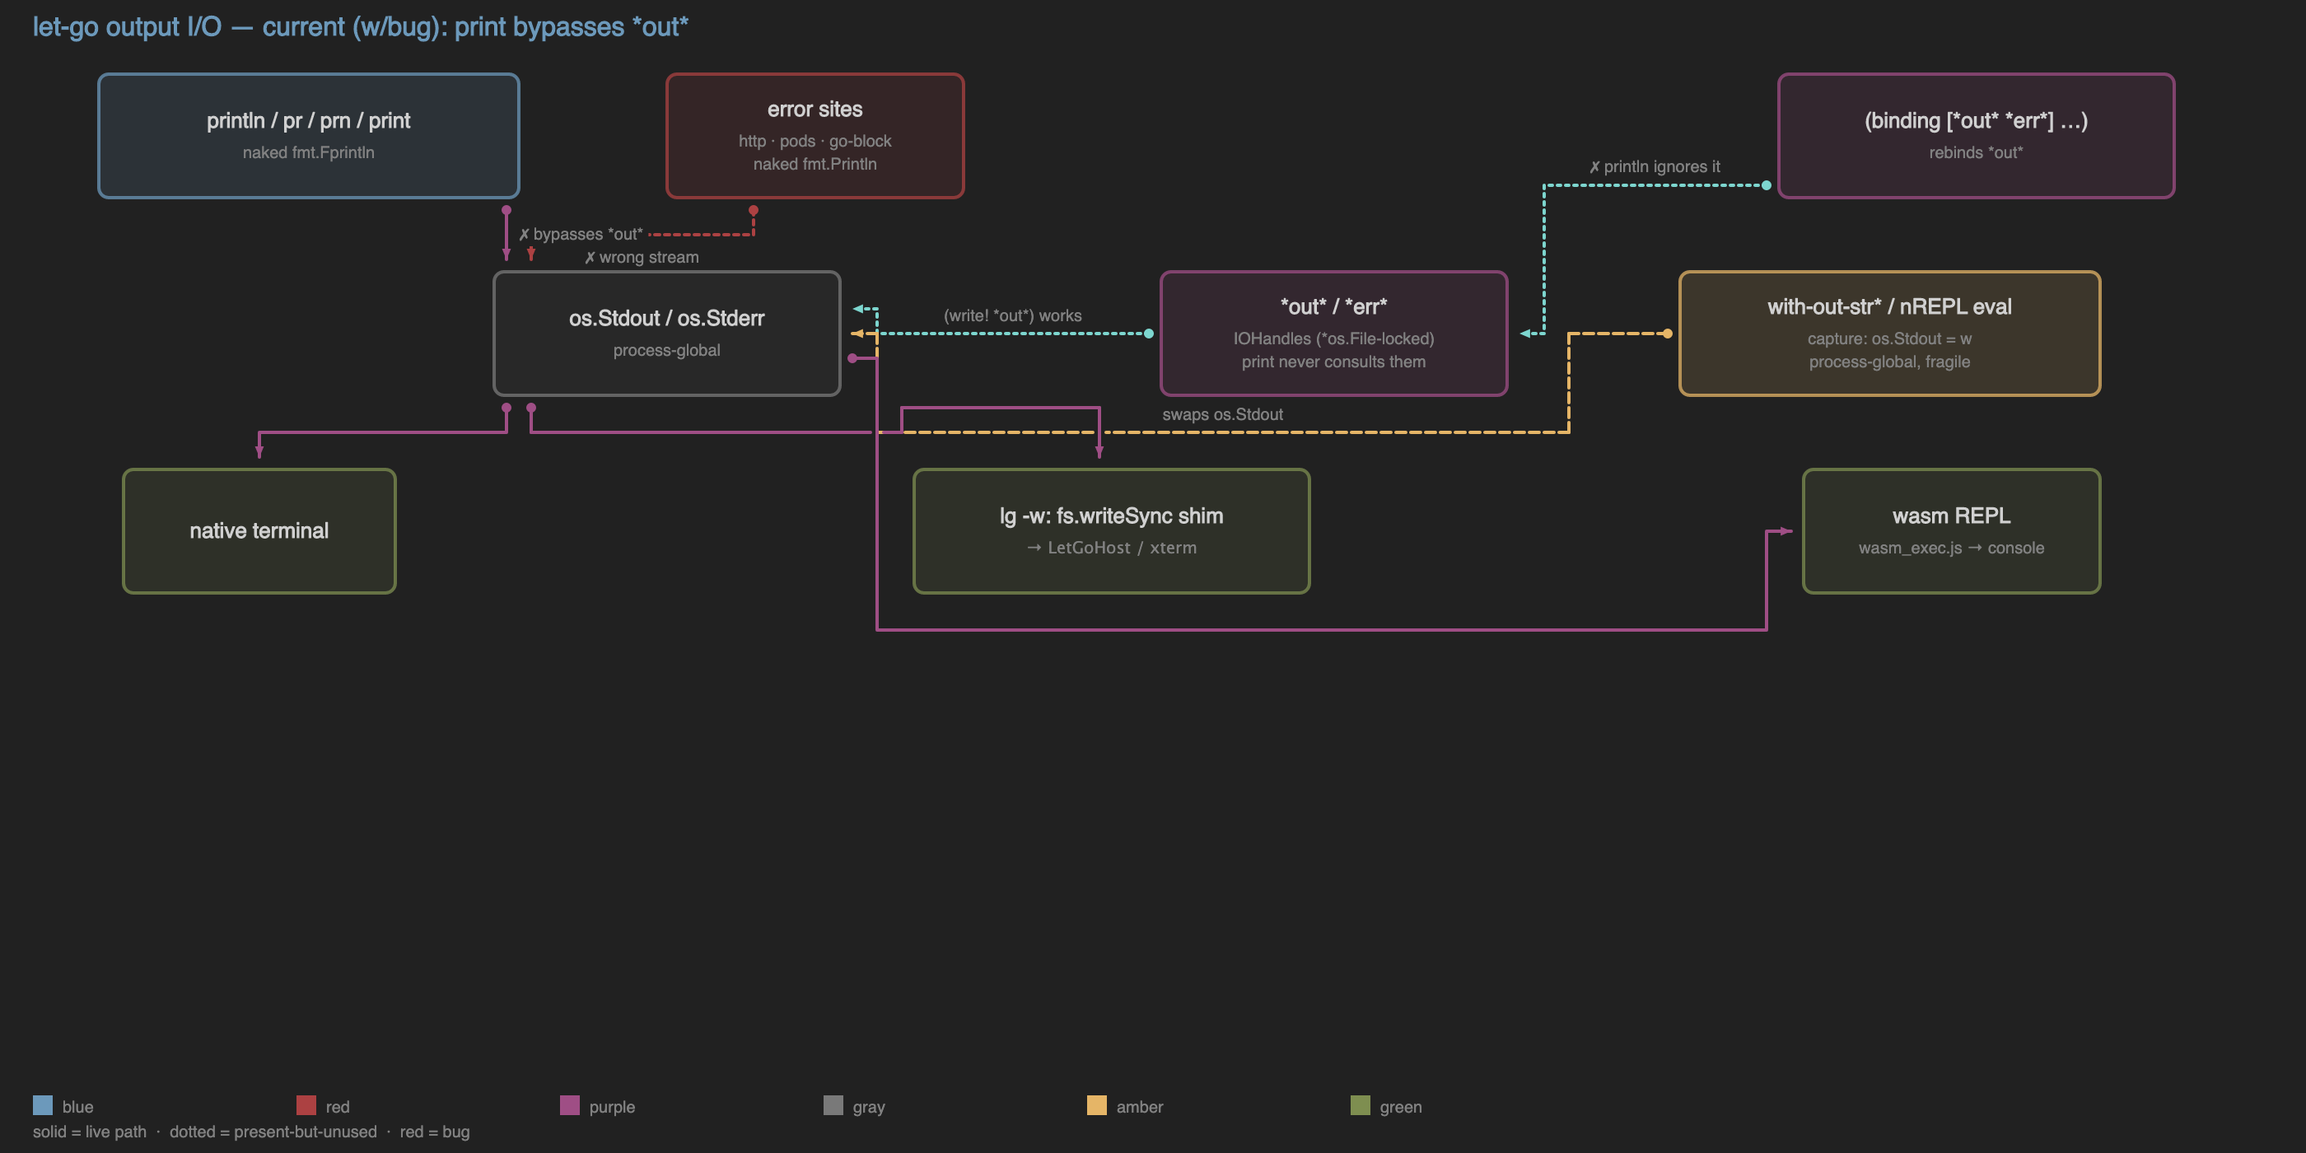
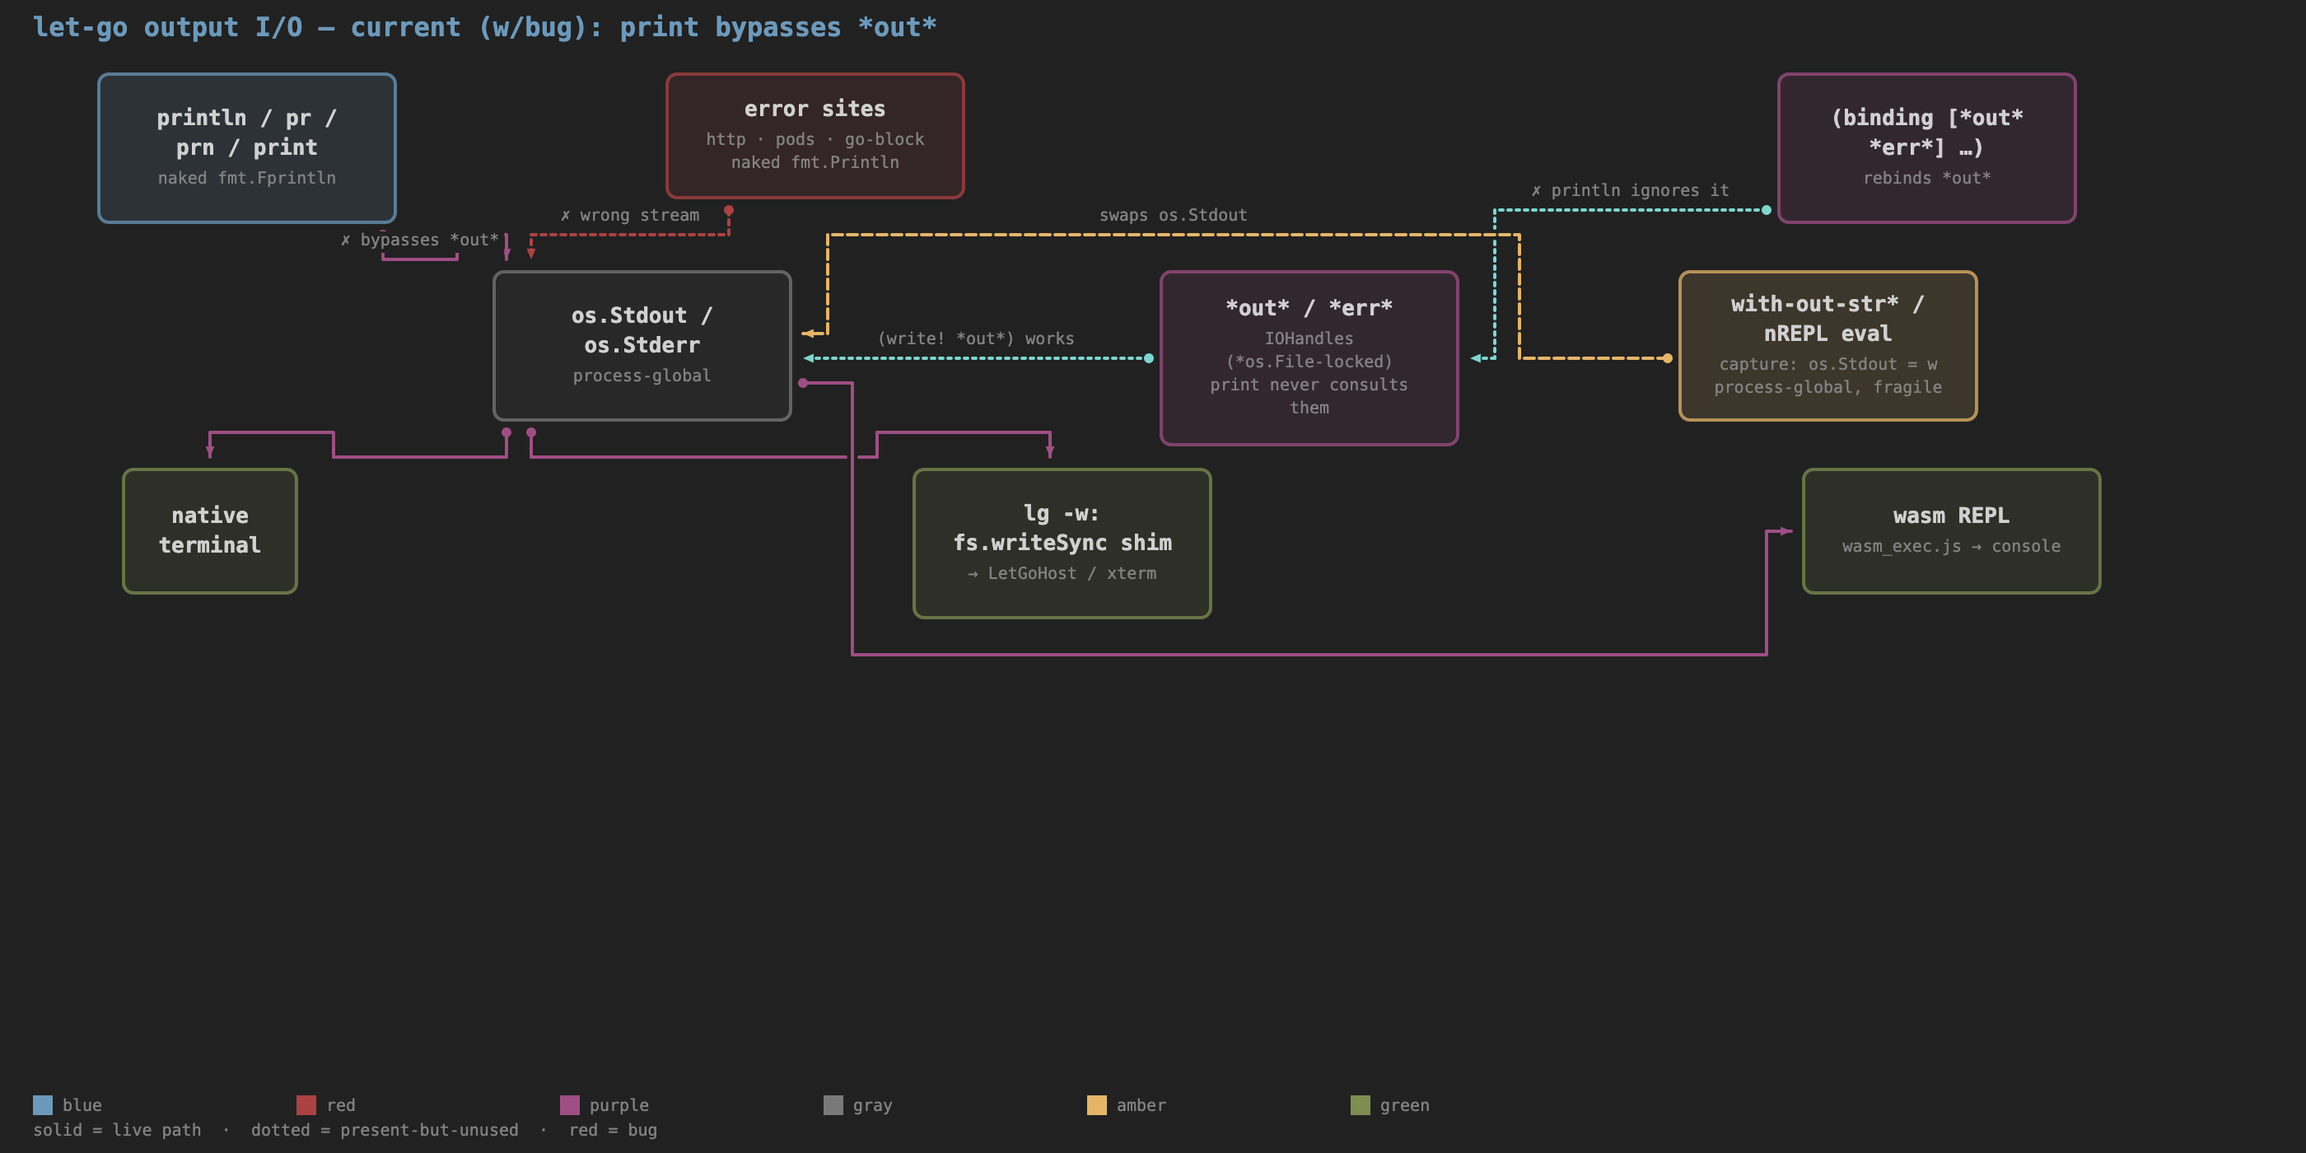
Choose auto box widths from a ladder by smallest area
The first pass here capped boxes at a fixed 340px. That stopped unbounded
growth, but measured on a real board it barely helped: total box area was
512720 against 511350 unbounded, and a four-wide row came out *wider* than
before, because every long box became 340 rather than only the few outliers
being trimmed.

An auto-sized box now picks from a ladder of whole-cell widths and takes the
smallest-area rung. On the same board: 3 distinct widths instead of 19, widest
240 instead of 1014, total area 353250 — 31% below the fixed ceiling.

Discrete widths do the work that a continuous fit cannot. Box edges line up
because every width comes off one ladder, and the search is five candidates
rather than an optimisation. It also makes uniformWidth meaningful again: the
old spread of 19 near-identical widths (217, 232, 236, 248, ...) read as noise
that homogenising existed to paper over.

Two constraints keep the objective honest. Area alone is minimised at the
narrowest rung every time — a short box pays the MIN_BOX_H floor while width
multiplies it — so unconstrained it turns every box into a tall thin column;
an aspect band floored at the existing 4:3 card ratio prevents that. And the
line caps let a narrow rung ellipsize rather than grow taller, so it scored
cheapest precisely by discarding text: candidates that lose text are now ruled
out before area is compared, and only chosen when no rung can hold it.
[…]

diff --git a/diagram-core.js b/diagram-core.js
@@ -110,12 +110,6 @@ const BASE_LABEL_PX = 13;
 // state.maxNodeW; declared here because fontSizes() runs at module load.
 export const DEFAULT_MAX_BOX_W = 340;
 
-// A title gets two lines; a detail line gets three. Details are usually the
-// longer text, and vertical space is cheap next to the width that forces a
-// whole row wider.
-export const MAX_LABEL_LINES = 2;
-export const MAX_DETAIL_LINES = 3;
-
 export function fontSizes(state = {}) {
   const fs = Number.isFinite(state.fontSize) && state.fontSize > 0
     ? state.fontSize
@@ -286,6 +280,46 @@ export const BOX_ASPECT_W = 4;
 export const BOX_ASPECT_H = 3;
 export const MIN_BOX_H = Math.round(MIN_BOX_W * BOX_ASPECT_H / BOX_ASPECT_W);
 export const MIN_ARROW_SEGMENT = CELL * 3;
+
+// A title gets two lines; a detail line gets three. Details are usually the
+// longer text, and vertical space is cheap next to the width that forces a
+// whole row wider.
+export const MAX_LABEL_LINES = 2;
+export const MAX_DETAIL_LINES = 3;
+
+/**
+ * Auto-sized boxes pick a width from this ladder (whole cells) rather than
+ * taking whatever their longest string measures.
+ *
+ * Two reasons it is discrete. Box edges line up, because every width is a whole
+ * number of cells off the same ladder — measured on a real board, free-growing
+ * boxes took 19 distinct widths where the ladder takes 2. And it makes the
+ * search a handful of candidates instead of a continuous optimisation.
+ */
+// The bottom rung is the card minimum itself, not a value above it: a rung
+// doubles as a floor (a box is padded out to the rung it picks, which is what
+// makes widths agree across a board), so starting higher than MIN_BOX_W would
+// silently inflate every small box.
+export const BOX_W_LADDER_CELLS = [Math.ceil(MIN_BOX_W / CELL), 12, 16, 20, 24];
+
+/**
+ * Aspect band a chosen width must land in.
+ *
+ * The floor is the card ratio MIN_BOX_H is derived from, and it is what stops
+ * the objective degenerating: area alone is minimised at the narrowest rung
+ * every time, because a short box pays the MIN_BOX_H floor while width
+ * multiplies it — so unconstrained "smallest area" turns every box into a tall
+ * thin column. The ceiling stops the opposite, a box so wide it reads as a bar.
+ */
+export const BOX_ASPECT_MIN = BOX_ASPECT_W / BOX_ASPECT_H;
+export const BOX_ASPECT_MAX = 4.5;
+
+/**
+ * How much extra area a box will accept to share a width with more of its
+ * neighbours. Pure per-box minimisation ignores that a board of near-identical
+ * widths reads as noise; this buys uniformity where it is nearly free.
+ */
+export const BOX_UNIFORMITY_TOLERANCE = 0.12;
 
 // Default cost parameters
 export const DEFAULT_COSTS = { step: 10, turn: 30, near: 40, overlap: 20 };
@@ -725,16 +759,29 @@ export function nodeBoxSize(
   sizes = DEFAULT_SIZES,
 ) {
   const explicitWpx = node.w > 0 ? node.w * CELL : 0;
-  // An explicit width (a drag-resize) is the manual override and wins outright.
-  // Otherwise the board's ceiling applies, so text wraps rather than the box
-  // growing without bound. sizes.box.maxW is Infinity when disabled.
-  const capPx = explicitWpx > 0 ? explicitWpx : sizes.box.maxW;
-  const budget = Number.isFinite(capPx) ? capPx - sizes.box.padX * 2 : Infinity;
+  if (explicitWpx > 0) return sizeAt(ctx, node, explicitWpx, font, sizes);
+
+  const cands = boxCandidates(ctx, node, font, sizes);
+  return cands.length
+    ? bestCandidate(cands)
+    : sizeAt(ctx, node, 0, font, sizes);
+}
+
+/**
+ * Measure a box wrapped to `targetPx` (0 → no wrap at all).
+ *
+ * `w` is what the box actually becomes, which can exceed the target: content
+ * width floors at the longest unbreakable word, so a target narrower than that
+ * does not hold it. Scoring the target rather than this is what made narrow
+ * rungs look artificially cheap in the first draft of the chooser.
+ */
+function sizeAt(ctx, node, targetPx, font, sizes) {
+  const budget = targetPx > 0 ? targetPx - sizes.box.padX * 2 : Infinity;
   const labelLines = wrapLabel(ctx, node.label, budget, font, sizes);
   const detailLines = wrapDetails(ctx, node.details, budget, font, sizes);
   const w = Math.max(
     contentWidth(ctx, labelLines, detailLines, node, font, sizes),
-    explicitWpx,
+    targetPx,
   );
   const h = Math.max(
     nodeBoxHeight(detailLines, sizes, labelLines.length),
@@ -742,6 +789,78 @@ export function nodeBoxSize(
     node.h > 0 ? node.h * CELL : 0,
   );
   return { w, h, labelLines, detailLines };
+}
+
+/**
+ * Every ladder rung this node could take, scored. Empty when the ladder is
+ * disabled (maxNodeW: 0), which is the caller's signal to grow unbounded.
+ */
+export function boxCandidates(
+  ctx,
+  node,
+  font = "monospace",
+  sizes = DEFAULT_SIZES,
+) {
+  const cap = sizes.box.maxW;
+  if (!Number.isFinite(cap)) return [];
+  const out = [];
+  for (const cells of BOX_W_LADDER_CELLS) {
+    const target = cells * CELL;
+    if (target > cap) continue;
+    const s = sizeAt(ctx, node, target, font, sizes);
+    const aspect = s.w / s.h;
+    out.push({
+      ...s,
+      target,
+      area: s.w * s.h,
+      aspect,
+      clipped: isClipped(node, s),
+      feasible: aspect >= BOX_ASPECT_MIN && aspect <= BOX_ASPECT_MAX,
+    });
+  }
+  // The cap may sit below every rung, or exclude all the feasible ones.
+  if (!out.length) {
+    out.push({
+      ...sizeAt(ctx, node, cap, font, sizes),
+      target: cap,
+      area: 0,
+      aspect: 0,
+      feasible: true,
+    });
+  }
+  return out;
+}
+
+/**
+ * Did wrapping to this width cost text? A source string that already ends in an
+ * ellipsis is the caller's own truncation and does not count.
+ */
+function isClipped(node, sized) {
+  const src = [node.label, ...(node.details || [])].map((s) => String(s ?? ""));
+  if (src.some((s) => s.endsWith("…"))) return false;
+  return [...sized.labelLines, ...sized.detailLines].some((l) =>
+    String(l).endsWith("…")
+  );
+}
+
+/**
+ * Smallest-area candidate that keeps all its text and sits in the aspect band.
+ *
+ * Clipping is ruled out before area is even compared, because the line caps let
+ * a narrow candidate cheat: it drops the text that would not fit instead of
+ * growing taller to hold it, so it scores as the cheapest option precisely
+ * because it threw content away. Preferring width over silent truncation is the
+ * whole reason the ceiling exists — the previous fixed 340 wrapped text rather
+ * than cutting it, and losing that would be a step backwards.
+ */
+function bestCandidate(cands) {
+  const smallest = (pool) => pool.reduce((a, b) => (b.area < a.area ? b : a));
+  const keeps = cands.filter((c) => !c.clipped);
+  const inBand = keeps.filter((c) => c.feasible);
+  if (inBand.length) return smallest(inBand);
+  if (keeps.length) return smallest(keeps); // text intact beats a pretty shape
+  const feasible = cands.filter((c) => c.feasible);
+  return smallest(feasible.length ? feasible : cands);
 }
 
 export function boardExtentForContent(content, baseW = 0, baseH = 0) {
@@ -805,6 +924,42 @@ export function computeLayout(ctx, state, canvasW) {
       SIZES,
     );
     pixDims.set(node.id, { w, h, labelLines, detailLines });
+  }
+
+  // Uniformity pass. Choosing each box's width independently minimises area per
+  // box but ignores that a board of near-but-not-quite-equal widths reads as
+  // noise. Once every box has its own best rung, re-offer the popular rungs:
+  // a box moves if the rung is more common and costs no more than
+  // BOX_UNIFORMITY_TOLERANCE extra area. Boxes with an explicit w/minW are left
+  // alone — their size is a deliberate statement, not an optimisation result.
+  {
+    const auto = nodes.filter((n) => !(n.w > 0) && !n.minW);
+    const popularity = new Map();
+    for (const n of auto) {
+      const w = pixDims.get(n.id).w;
+      popularity.set(w, (popularity.get(w) || 0) + 1);
+    }
+    if (popularity.size > 1) {
+      // Descending popularity, then narrower: a tie should not widen the board.
+      const ranked = [...popularity.entries()]
+        .sort((a, b) => b[1] - a[1] || a[0] - b[0])
+        .map(([w]) => w);
+      for (const node of auto) {
+        const cur = pixDims.get(node.id);
+        const curArea = cur.w * cur.h;
+        const curRank = ranked.indexOf(cur.w);
+        const curClipped = isClipped(node, cur);
+        for (const w of ranked.slice(0, curRank)) { // strictly more popular
+          const alt = sizeAt(ctx, node, w, FONT, SIZES);
+          // Uniformity is never worth losing text for.
+          if (!curClipped && isClipped(node, alt)) continue;
+          if (alt.w * alt.h <= curArea * (1 + BOX_UNIFORMITY_TOLERANCE)) {
+            pixDims.set(node.id, alt);
+            break;
+          }
+        }
+      }
+    }
   }
 
   // uniformWidth: homogenize — every box without an explicit minW takes the

diff --git a/tests/diagram-core.test.js b/tests/diagram-core.test.js
@@ -351,6 +351,67 @@ Deno.test("wrapDetails: each source line wraps independently and keeps unbreakab
   assertEquals(long, ["jsr:@std/path@0.224.0/posix"]);
 });
 
+Deno.test("auto widths come from the ladder, so a board shares box edges", () => {
+  const ctx = measureContext();
+  // Titles of deliberately assorted lengths: free-growing boxes would take a
+  // different width each, which is the incoherence the ladder exists to remove.
+  const boxes = computeLayout(ctx, {
+    edges: [],
+    nodes: [
+      "Alpha",
+      "Alpha Beta",
+      "Alpha Beta Gamma",
+      "Alpha Beta Gamma Delta",
+      "Alpha Beta Gamma Delta Epsilon",
+      "Alpha Beta Gamma Delta Epsilon Zeta",
+    ].map((label, i) => ({ id: `n${i}`, label, row: i, col: 0 })),
+  }, 4000);
+
+  for (const b of boxes) {
+    assert(
+      b.pixW % CELL === 0,
+      `${b.id} width ${b.pixW} is not a whole number of cells`,
+    );
+  }
+  const distinct = new Set(boxes.map((b) => b.pixW));
+  assert(
+    distinct.size <= 3,
+    `expected a handful of shared widths, got ${[...distinct].join(", ")}`,
+  );
+});
+
+Deno.test("a narrower box is not chosen by throwing text away", () => {
+  const ctx = measureContext();
+  // The line caps let a narrow candidate ellipsize instead of growing taller,
+  // so on area alone it looks cheapest *because* it lost content. The chooser
+  // has to rule that out before comparing area.
+  const node = {
+    id: "a",
+    label: "#653",
+    details: [
+      "boxed override for typed-return fns across the AOT lowering path",
+    ],
+    row: 0,
+    col: 0,
+  };
+  const box = computeLayout(ctx, { edges: [], nodes: [node] }, 4000)
+    .find((b) => b.id === "a");
+
+  const lines = [...box.labelLines, ...box.detailLines];
+  assert(
+    !lines.some((l) => l.endsWith("…")),
+    `a wider rung holds this text, so nothing should be cut: ${
+      JSON.stringify(lines)
+    }`,
+  );
+
+  // And when no rung can hold it, it still renders rather than failing.
+  const huge = { ...node, details: [("word ").repeat(120).trim()] };
+  const wide = computeLayout(ctx, { edges: [], nodes: [huge] }, 4000)
+    .find((b) => b.id === "a");
+  assert(wide.pixW > 0 && wide.detailLines.length > 0, "still lays out");
+});
+
 Deno.test("computeLayout honors explicit w/h (cells), clamped up to content", () => {
   const ctx = measureContext();
   const sized = computeLayout(ctx, {

diff --git a/tests/diagram-api.test.js b/tests/diagram-api.test.js
@@ -453,10 +453,22 @@ Deno.test("solvePositions reports the drawn box size, not the content size", () 
     const path = `${dir}/diagram-state.json`;
     // An auto-sized box, deliberately: with an explicit `w` in cells the content
     // and drawn widths coincide, so the assertion passes on the old code too and
-    // proves nothing. This label measures to a non-multiple of CELL, which is
-    // the only case that separates the two.
+    // proves nothing. The content must measure to a non-multiple of CELL.
+    //
+    // It has to be one unbreakable token. Auto widths are chosen from a ladder
+    // of whole-cell rungs and padded out to the rung, so an ordinary label now
+    // lands exactly on a cell boundary and closes the gap this test needs. A
+    // word too long to wrap overflows its rung, and that overflow is the
+    // remaining case where content and drawn width genuinely differ.
     writeState(path, {
-      nodes: [{ id: "a", label: "Payment Reconciliation", row: 0, col: 0 }],
+      nodes: [
+        {
+          id: "a",
+          label: "PaymentReconciliationServiceEndpoint",
+          row: 0,
+          col: 0,
+        },
+      ],
     });
     const p = Diagram.load(path).solvePositions().positions.a;
 

diff --git a/README.md b/README.md
@@ -163,7 +163,11 @@ Three light annotation primitives keep diagrams grokkable without boxes-inside-b
 - **Notes** — free-floating info-panel text outside any box (`"notes"`, or `add-note 950 320 --title="why" "line one" "line two"`): captions beside connectors, region callouts. Notes mirror the node placement model: an absolute `x,y` **or** an `anchor` to a node that rides the box through re-layout (`add-note --anchor=api:E:12:0 "…"` → 12px right of `api`'s east edge). In the editor, drag a note to pin it (writes a `noteLayout[id]` override), right-click for **Edit / Re-anchor to nearest box / Free / Delete**, double-click to edit text, or right-click empty canvas to drop one. `free-note <id>` drops the drag override so the note returns to its anchor/`x,y`.
 - **Uniform widths** — `"uniformWidth": true` (or `uniform-width on`) sizes every box to the widest one, so size variation reads as *deliberate*. To emphasize a node, give it `"minW": <px>` (or `update-node <id> --minW=320`) — it keeps its own size while the rest stay homogenized.
 - **Box size** — boxes auto-fit their content, floored to a 4:3 card minimum so short labels aren't thin strips. Set an explicit size in grid cells with `"w"`/`"h"` (or `update-node <id> --w=14 --h=6`, or drag a box's bottom-right corner in the editor). Explicit size is clamped up to the content/card minimum, so a box can never shrink small enough to clip its text; `--w=0`/`--h=0` clears it back to auto. Explicitly-sized boxes opt out of `uniformWidth`. When you give a box an explicit width, a long **title** wraps to fit it (so you can make a wide box narrower).
-- **Text wrapping** — a box grows to fit its text only up to `maxNodeW` (default 340px, scaled by `fontSize`); past that the text wraps instead. Without a ceiling one long string sets the column width for its whole row, so a single node stretches the board — and a wide enough board hits the 4096px raster cap and is downscaled until nothing reads. Titles wrap to two lines, each `details` line to three, then ellipsize. A word too long to break is never split: it overflows and widens the box, so module paths and ids stay readable. To opt out, set `"maxNodeW": 0` for the board, or give one box an explicit `"w"` — an explicit width always wins.
+- **Text wrapping and box width** — an auto-sized box doesn't take whatever its longest string measures. It picks a width from a small ladder of whole-cell sizes and wraps its text to fit, choosing the rung that gives the **smallest area** while staying in a sane aspect band and without cutting any text. Titles wrap to two lines, each `details` line to three.
+
+  Three things follow. Box edges line up, because every width comes off the same ladder — on a real board, free-growing boxes took 19 distinct widths where the ladder takes 3. Boards get smaller, since a tall narrow box usually beats a wide flat one. And nothing silently vanishes: a rung that would ellipsize is rejected while a wider one still holds the text, so the box grows rather than truncating.
+
+  Without a ceiling, one long string sets the column width for its whole row, so a single node stretches the board — and a wide enough board hits the 4096px raster cap and is downscaled until nothing reads. `maxNodeW` (default 340px, scaled by `fontSize`) caps the top of the ladder. A word too long to break is never split: it overflows and widens the box, so module paths and ids stay readable. To opt out, set `"maxNodeW": 0` for the board, or give one box an explicit `"w"` — an explicit width always wins.
 - **Typeface** — `"font": "sans"` (or `set-font sans`) switches the whole diagram from the default monospace to bundled Instrument Sans (with DejaVu's symbol glyphs merged in, so `✗ ✓ → ●` still render). The editor ships a matching `@font-face`, so it stays WYSIWYG.
 - **Font size** — `"fontSize": 16` (or `set-font-size 16`, or the editor sidebar) scales every text size *and* the box geometry from a base of 13px, so boxes grow to fit. Unset renders identically to before. `set-font-size reset` returns to the default.
 
